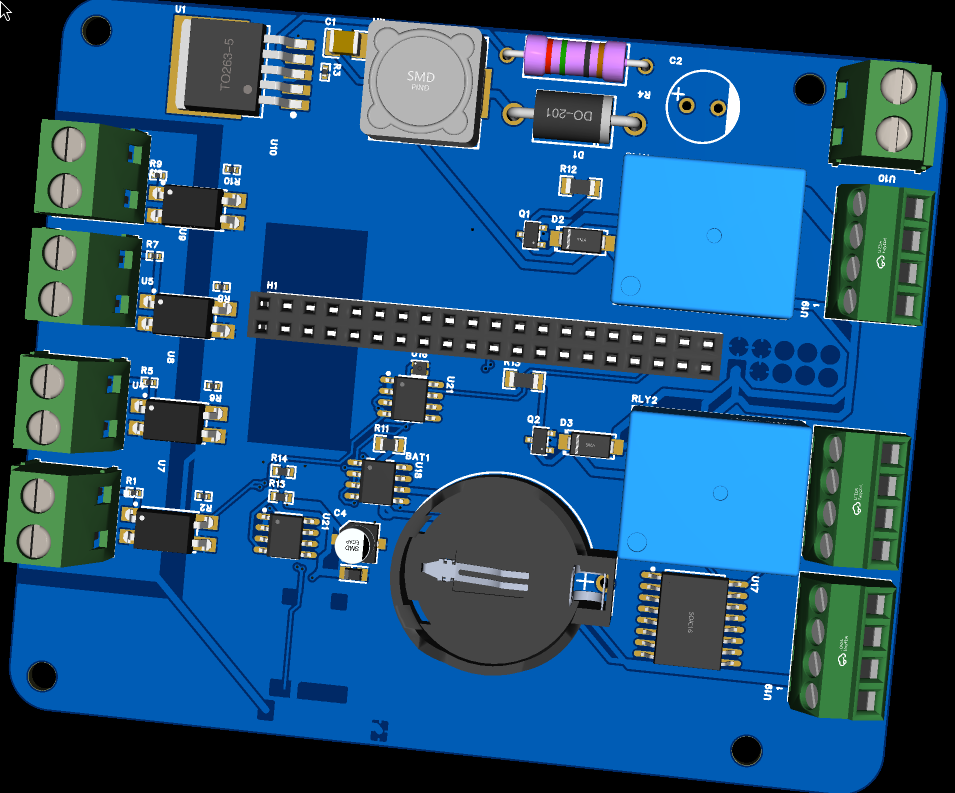
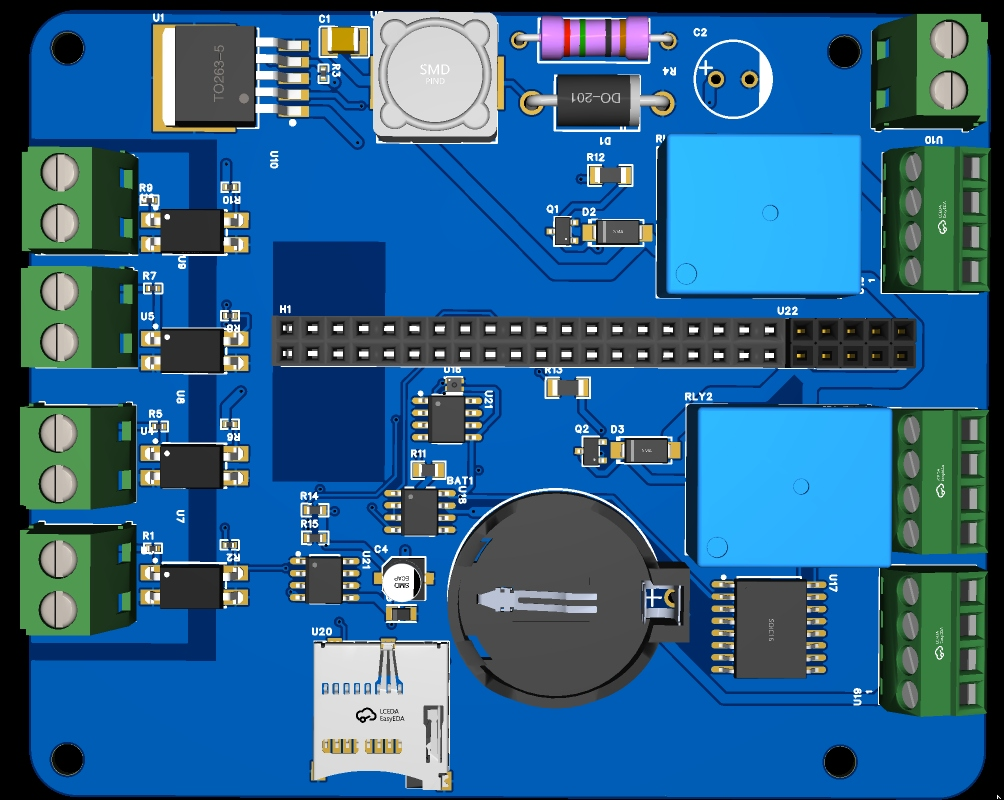
docs: include Front HMI parts in BOM

diff --git a/README.md b/README.md
@@ -20,6 +20,7 @@ I'm a Computer Engineering student and I wanted a reliable, isolated brain for a
 - INA219 for power monitoring, SHT41 for temp/humidity, and a DS3231 RTC for keeping time offline.
 - MicroSD slot to save logs without needing a cloud connection.
 - 40-pin expansion/service header kept for debugging, future wiring, and compatibility experiments.
+- Front HMI board with WS2812B status LEDs and a tactile button.
 
 ## Design and Making it
 
@@ -61,7 +62,7 @@ This is the price for the parts, not including shipping or taxes.
 
 Note for people in Brazil (São Paulo): If you are around Santa Ifigênia, you can get most of the passives and connectors there for cheap. The ESP32 and LCSC orders usually stay under the tax limit if you're careful.
 
-Check BOM.csv for the full list of all 33+ parts.
+Check BOM.csv for the full list of Main Shield and Front HMI parts.
 
 ### Shipping info
 I used Global Standard Direct Line for the PCBs, which is the cheapest tracked option to Brazil.

diff --git a/BLUEPRINT_BUDGET.md b/BLUEPRINT_BUDGET.md
@@ -9,7 +9,7 @@ The total I am using for the project is the real checkout/cart cost, not a per-u
 | Vendor | What it covers | Amount |
 | :--- | :--- | :--- |
 | AliExpress | ESP32-S3 WeAct Studio module | $6.87 |
-| LCSC | Components cart (27 items) | $26.52 |
+| LCSC | Components cart for Main Shield + Front HMI parts | $26.52 |
 | JLCPCB | Edge Nexus V2 (Shield + HMI) bare PCB order | $9.10 |
 | **Total** | | **$42.49** |
 
